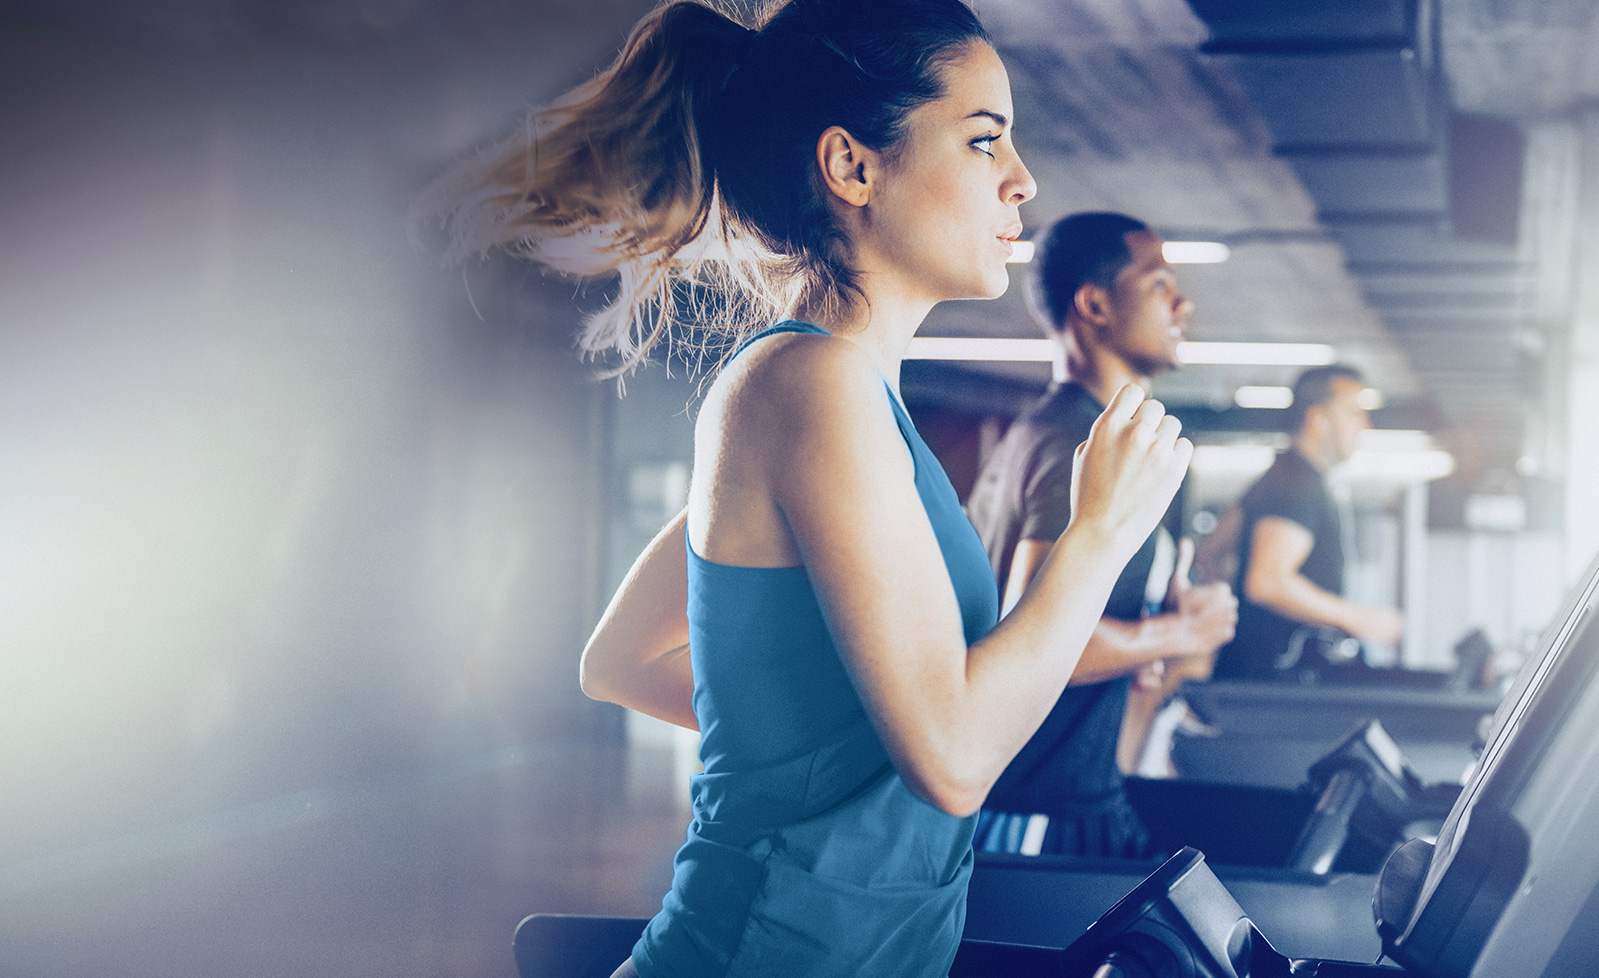
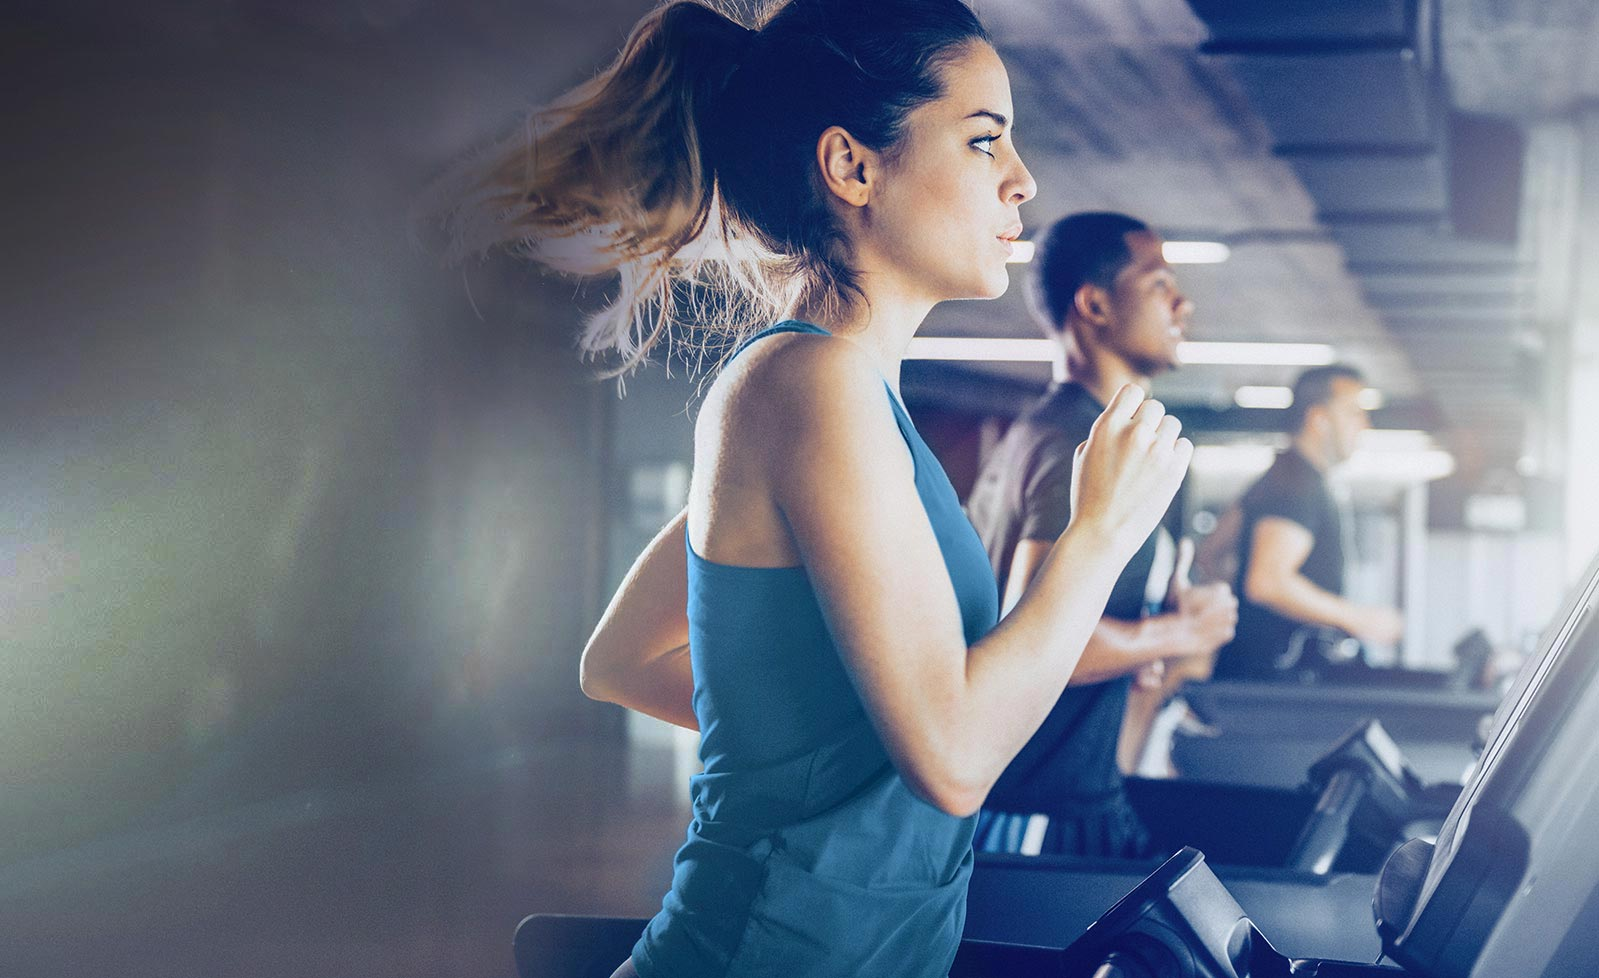
Updated hero image and auto-play
Updated the main hero image for legibility.

Added method to video.js to auto-play the video if source is an email.

diff --git a/Landing/scripts/video.js b/Landing/scripts/video.js
@@ -54,5 +54,17 @@ if ($('body').hasClass('isHome') || $('body').hasClass('isLanding')) {
             });
         }
     }
+
+    function playAfterJump() {
+        var query = location.search;
+        var param = null;
+        
+        if (query !== null && typeof(query) !== "undefined" && query.length > 0)
+            param = query.substr(1).split("=");
+
+        if (param !== null && param.length == 2 && param[1] === "play")
+            document.getElementById("toggleFullScreen").click();
+    }
+
     homepageVideo();
 }
